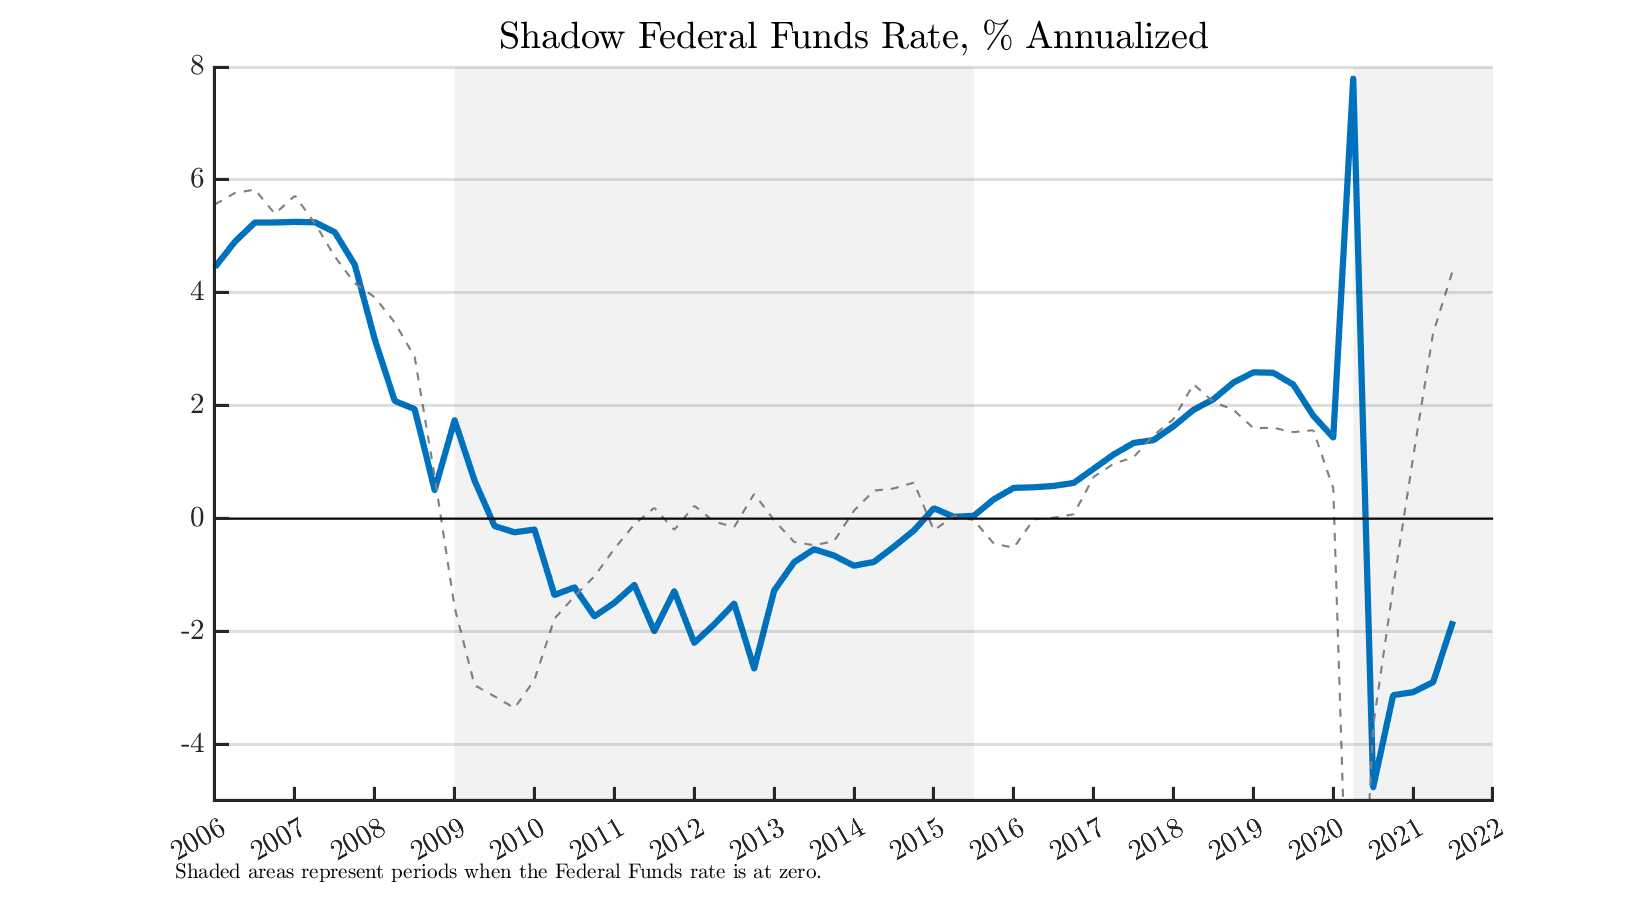
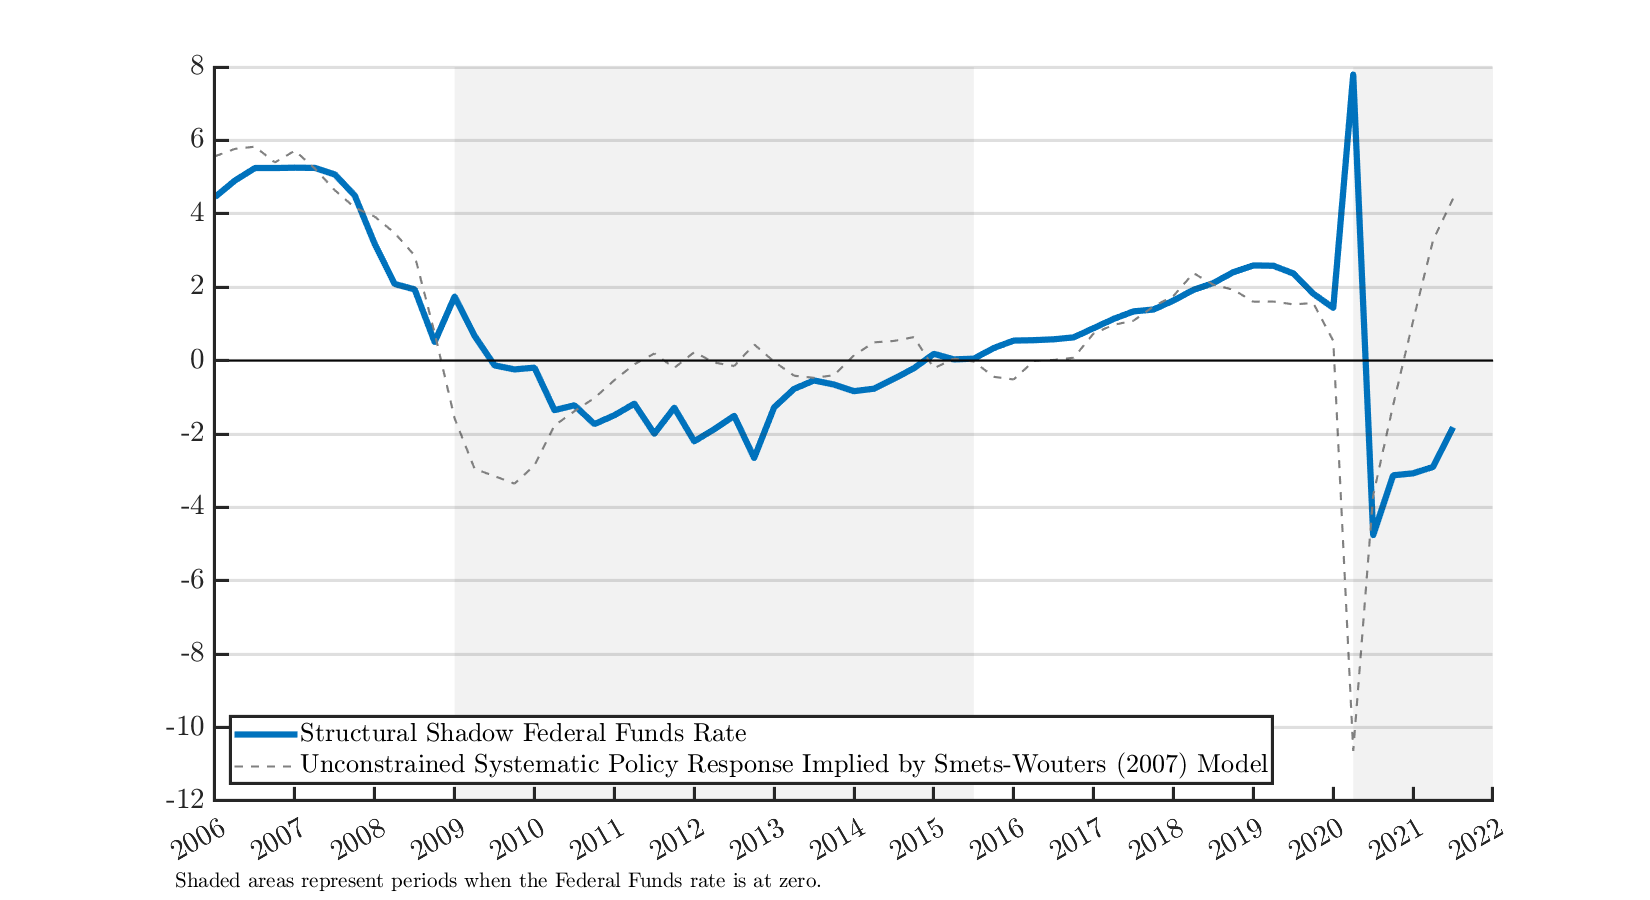
Update Shadow Rate with Latest Data

diff --git a/README.md b/README.md
@@ -10,7 +10,13 @@ Last updated on 04-November-2021. The latest observation is 2021:3.
 
 ![Shadow Rate](exhibits/shadowrate.png)
 
-### Data
+
+## Stance of Monetary Policy
+
+![Shadow Rate](exhibits/shadowrate_systematic_rule.png)
+
+
+## Data
 
 The data is available in Excel format [here](https://github.com/callumjones/shadow-rate/blob/main/exhibits/shadowrate.xlsx?raw=true) and in a Matlab file [here](https://github.com/callumjones/shadow-rate/blob/main/exhibits/shadowrate.mat?raw=true).
 
@@ -21,10 +27,6 @@ The files contain the following variables.
 | `date`   | Quarters, starting from 1984Q1 |
 | `fedfundsrate` | Federal Funds Rate, Annualized |
 | `fedfundsrate_shadow` | Shadow Federal Funds Rate, Annualized |
-
-## Stance of Monetary Policy
-
-
 
 <!---
 ## Figure Reproduction
